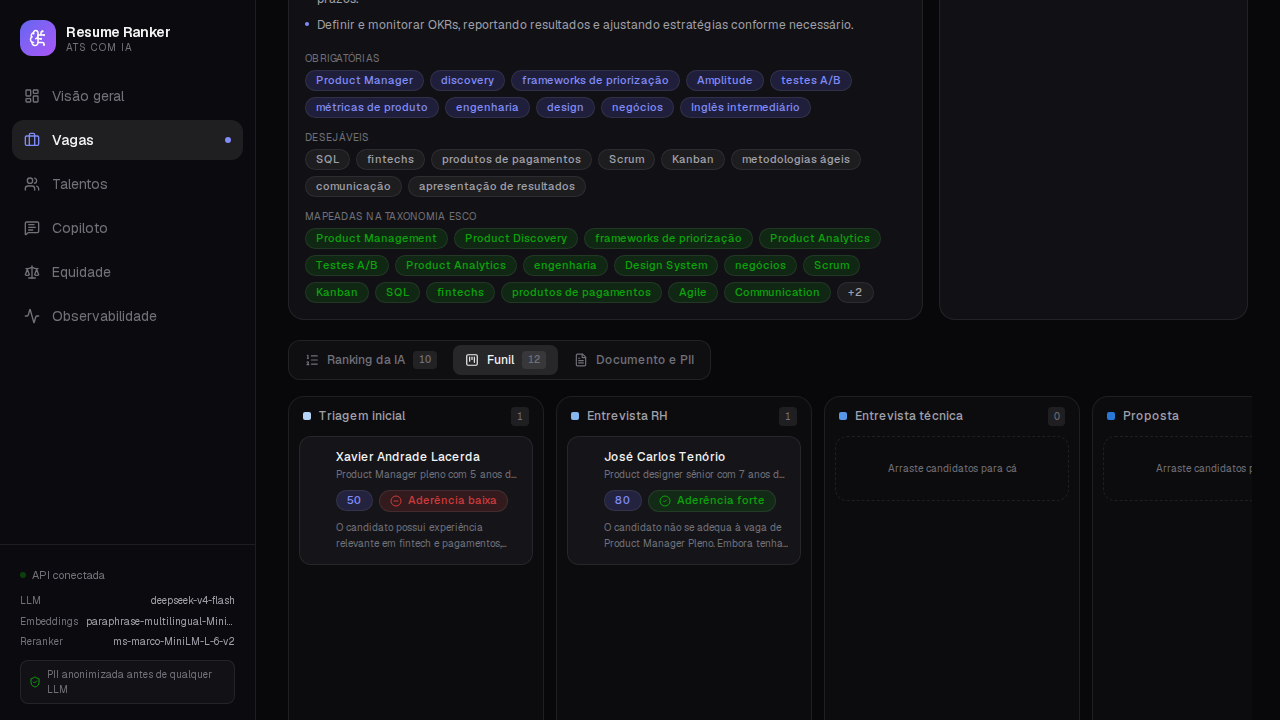
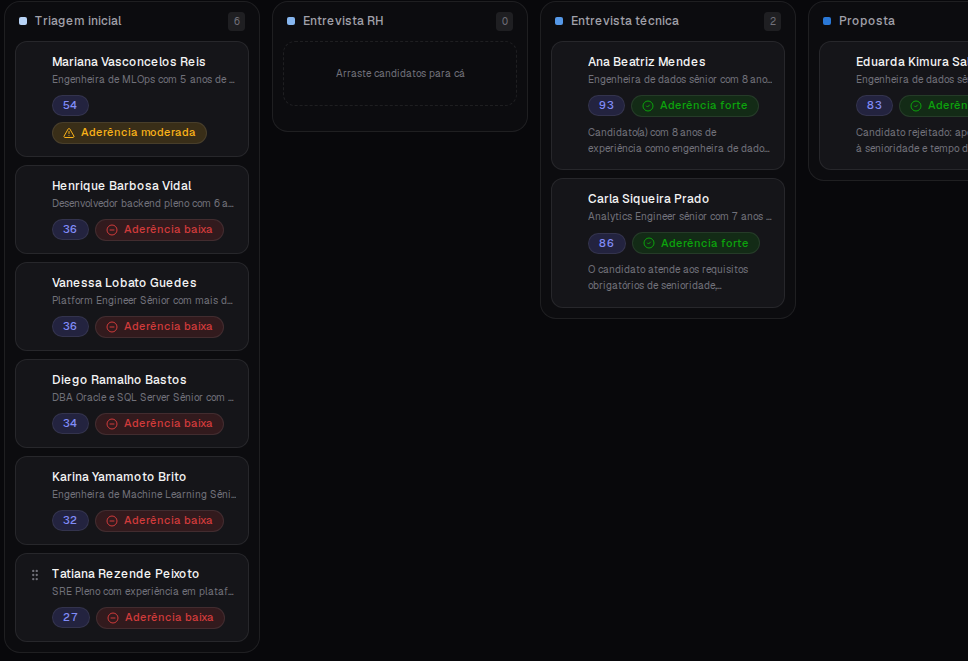
docs: add the ATS walkthrough to the README
Covers the three screens the README was not showing: the jobs list with its
per-job funnel, the drag-and-drop hiring funnel, and the candidate profile
with the ESCO mapping grouped by how each term matched.

Also stops the kanban columns from stretching to the height of the tallest
one — an empty column was rendering a thousand pixels tall.

diff --git a/web/e2e/screenshots.spec.ts b/web/e2e/screenshots.spec.ts
@@ -75,14 +75,21 @@ test("04 — análise da IA com evidências verificadas", async ({ page }) => {
 });
 
 test("05 — funil kanban", async ({ page }) => {
-  const job = await firstJob();
+  // A job with candidates spread across the funnel, not one big rejected pile.
+  const jobs = await (await fetch(`${API}/ats/jobs`)).json();
+  const job = jobs.find((j: { title: string }) => j.title.includes("Engenheiro(a) de Dados")) ?? jobs[0];
   await page.goto(`/jobs/${job.id}`);
   await page.waitForResponse((r) => r.url().includes("/rank") && r.status() === 200, {
     timeout: 90_000,
   });
   await page.getByRole("tab", { name: /Funil/ }).click();
   await expect(page.getByText("Triagem inicial")).toBeVisible();
-  await shoot(page, "05-funil-kanban");
+
+  // Frame the board itself instead of whatever happened to be in the viewport.
+  const board = page.locator("main > div").filter({ hasText: "Triagem inicial" }).last();
+  await board.scrollIntoViewIfNeeded();
+  await settle(page);
+  await board.screenshot({ path: path.join(OUT, "05-funil-kanban.png") });
 });
 
 test("06 — comparador de PII", async ({ page }) => {

diff --git a/web/src/components/ats/Kanban.tsx b/web/src/components/ats/Kanban.tsx
@@ -90,7 +90,8 @@ export function KanbanBoard({
   };
 
   return (
-    <div className="-mx-1 flex gap-3 overflow-x-auto px-1 pb-2">
+    // items-start: an empty column should not stretch to the tallest one.
+    <div className="-mx-1 flex items-start gap-3 overflow-x-auto px-1 pb-2">
       {columns.map((column, index) => (
         <section
           key={column.key}

diff --git a/README.md b/README.md
@@ -33,6 +33,7 @@ The product is a working ATS: publish a job, drop in résumés, get a ranked sho
 - [What makes it different](#what-makes-it-different)
 - [Architecture](#architecture)
 - [How the ranking works](#how-the-ranking-works)
+- [The ATS itself](#the-ats-itself)
 - [Retrieval evaluation](#retrieval-evaluation)
 - [Explainability: the citation guardrail](#explainability-the-citation-guardrail)
 - [Privacy: the PII boundary](#privacy-the-pii-boundary)
@@ -137,6 +138,38 @@ The interface exposes all of it. Each result carries the rank it held in *each* 
 </div>
 
 Hard requirements stay out of the vector space entirely: minimum years of experience, accepted seniority levels and mandatory certifications are **Qdrant payload filters** applied before scoring. Semantic similarity should never talk someone into a role that requires a certification they don't hold.
+
+---
+
+## The ATS itself
+
+The ranking has to land somewhere, and that somewhere is an ordinary hiring workflow: jobs with a status and a headcount, a talent pool, applications moving through a funnel, and a timeline of everything that happened — including what the AI did.
+
+<div align="center">
+
+![Jobs](docs/screenshots/02-vagas.png)
+
+</div>
+
+Each job card carries its own funnel. Publishing a job runs the description through the exact same pipeline as a résumé — redaction, structured extraction, ESCO normalisation, vector indexing — because the matching is symmetric.
+
+<div align="center">
+
+![Hiring funnel](docs/screenshots/05-funil-kanban.png)
+
+</div>
+
+Cards carry the AI score, the fit badge and the model's one-line summary, and dragging one writes a timeline entry with the author and the transition. The stages are `sourced → screening → interview → offer → hired`, with `rejected` as a lateral exit.
+
+The candidate page is where the extraction becomes inspectable: the consolidated career narrative, the quantified highlights, and every résumé term mapped onto the ESCO taxonomy — grouped by *how* it matched, so an exact hit and a lucky embedding guess are not presented as the same thing.
+
+<div align="center">
+
+![Candidate profile](docs/screenshots/07-candidato.png)
+
+</div>
+
+The engine is bidirectional. The same three vectors that rank candidates for a job also rank jobs for a candidate, and the candidate page runs that reverse query.
 
 ---
 
